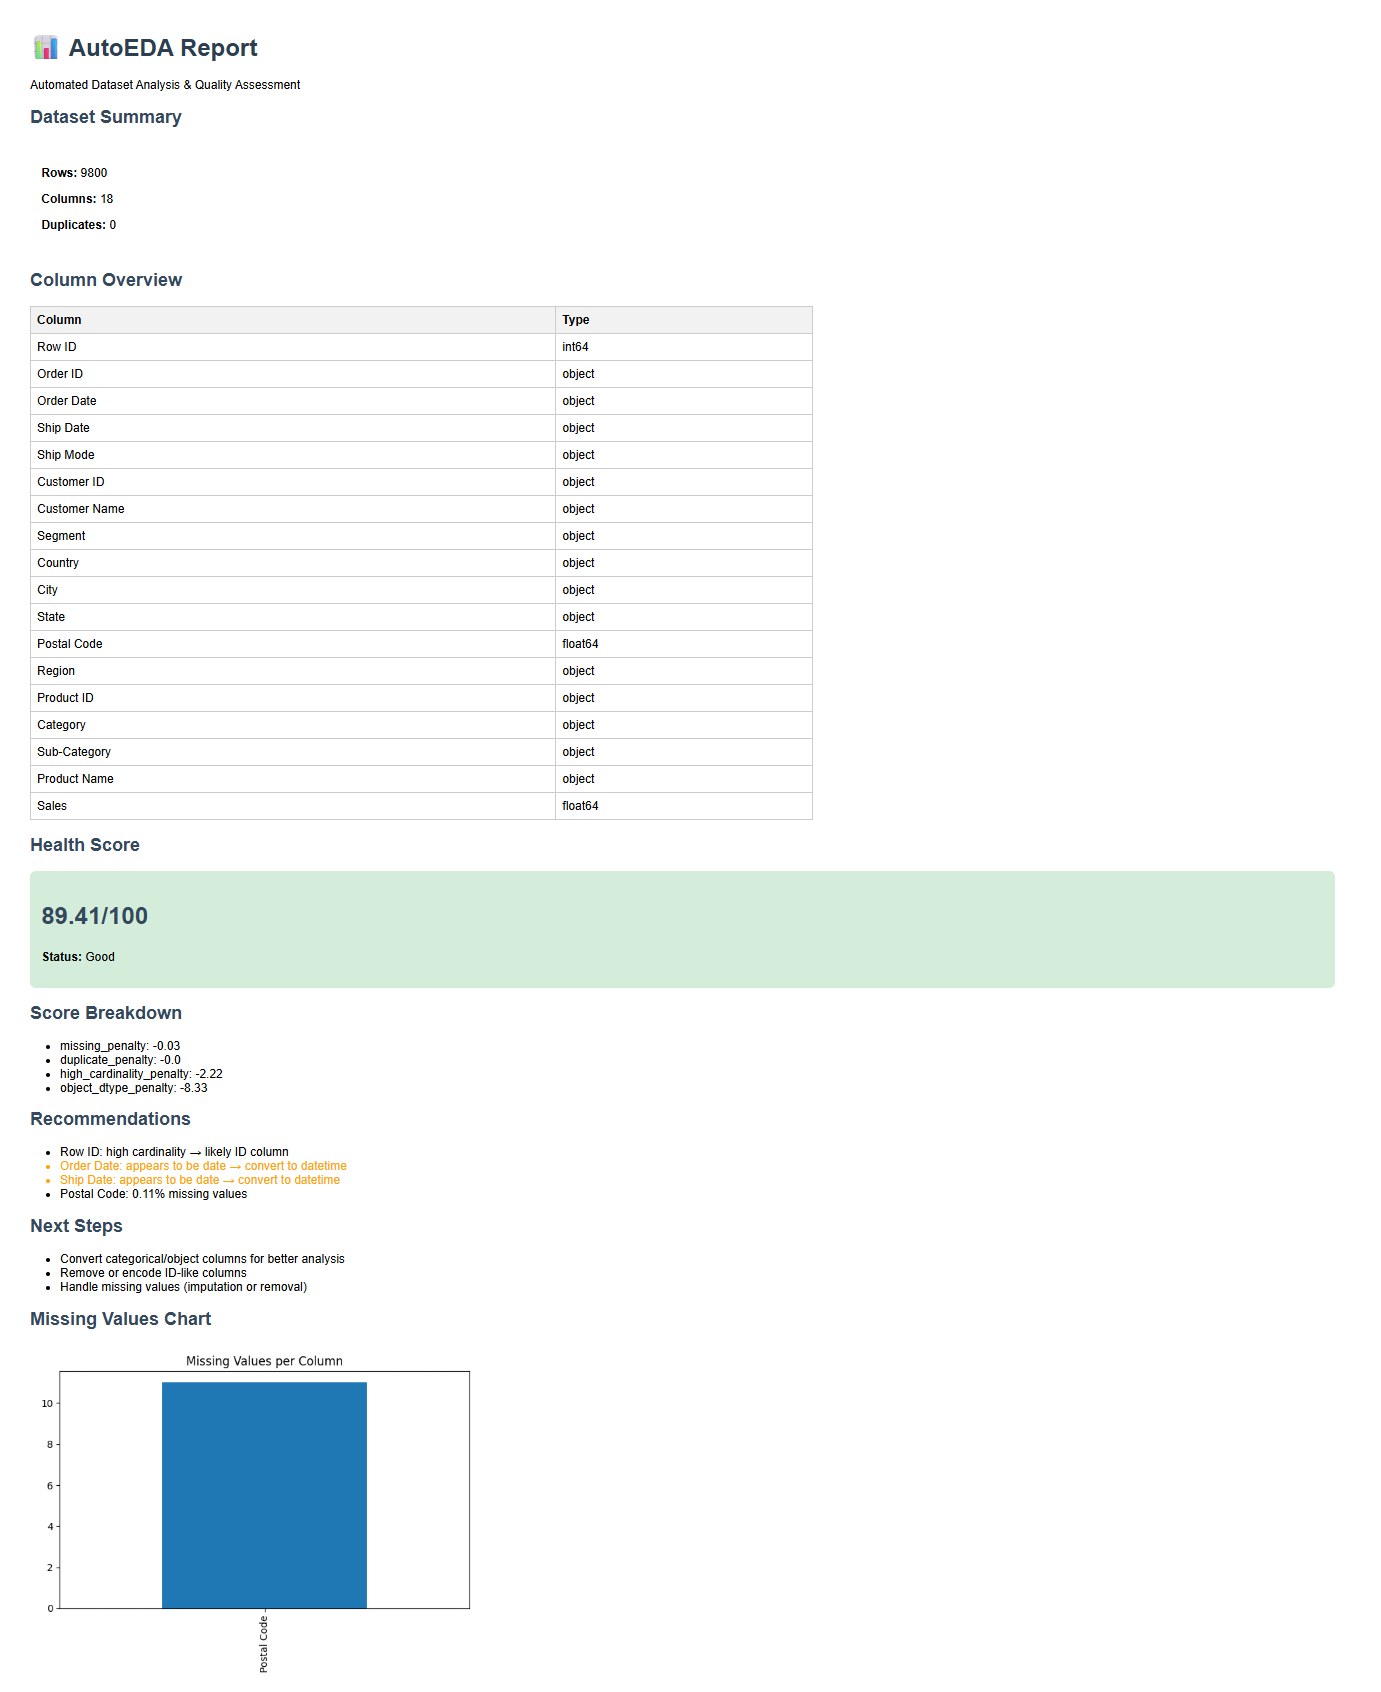
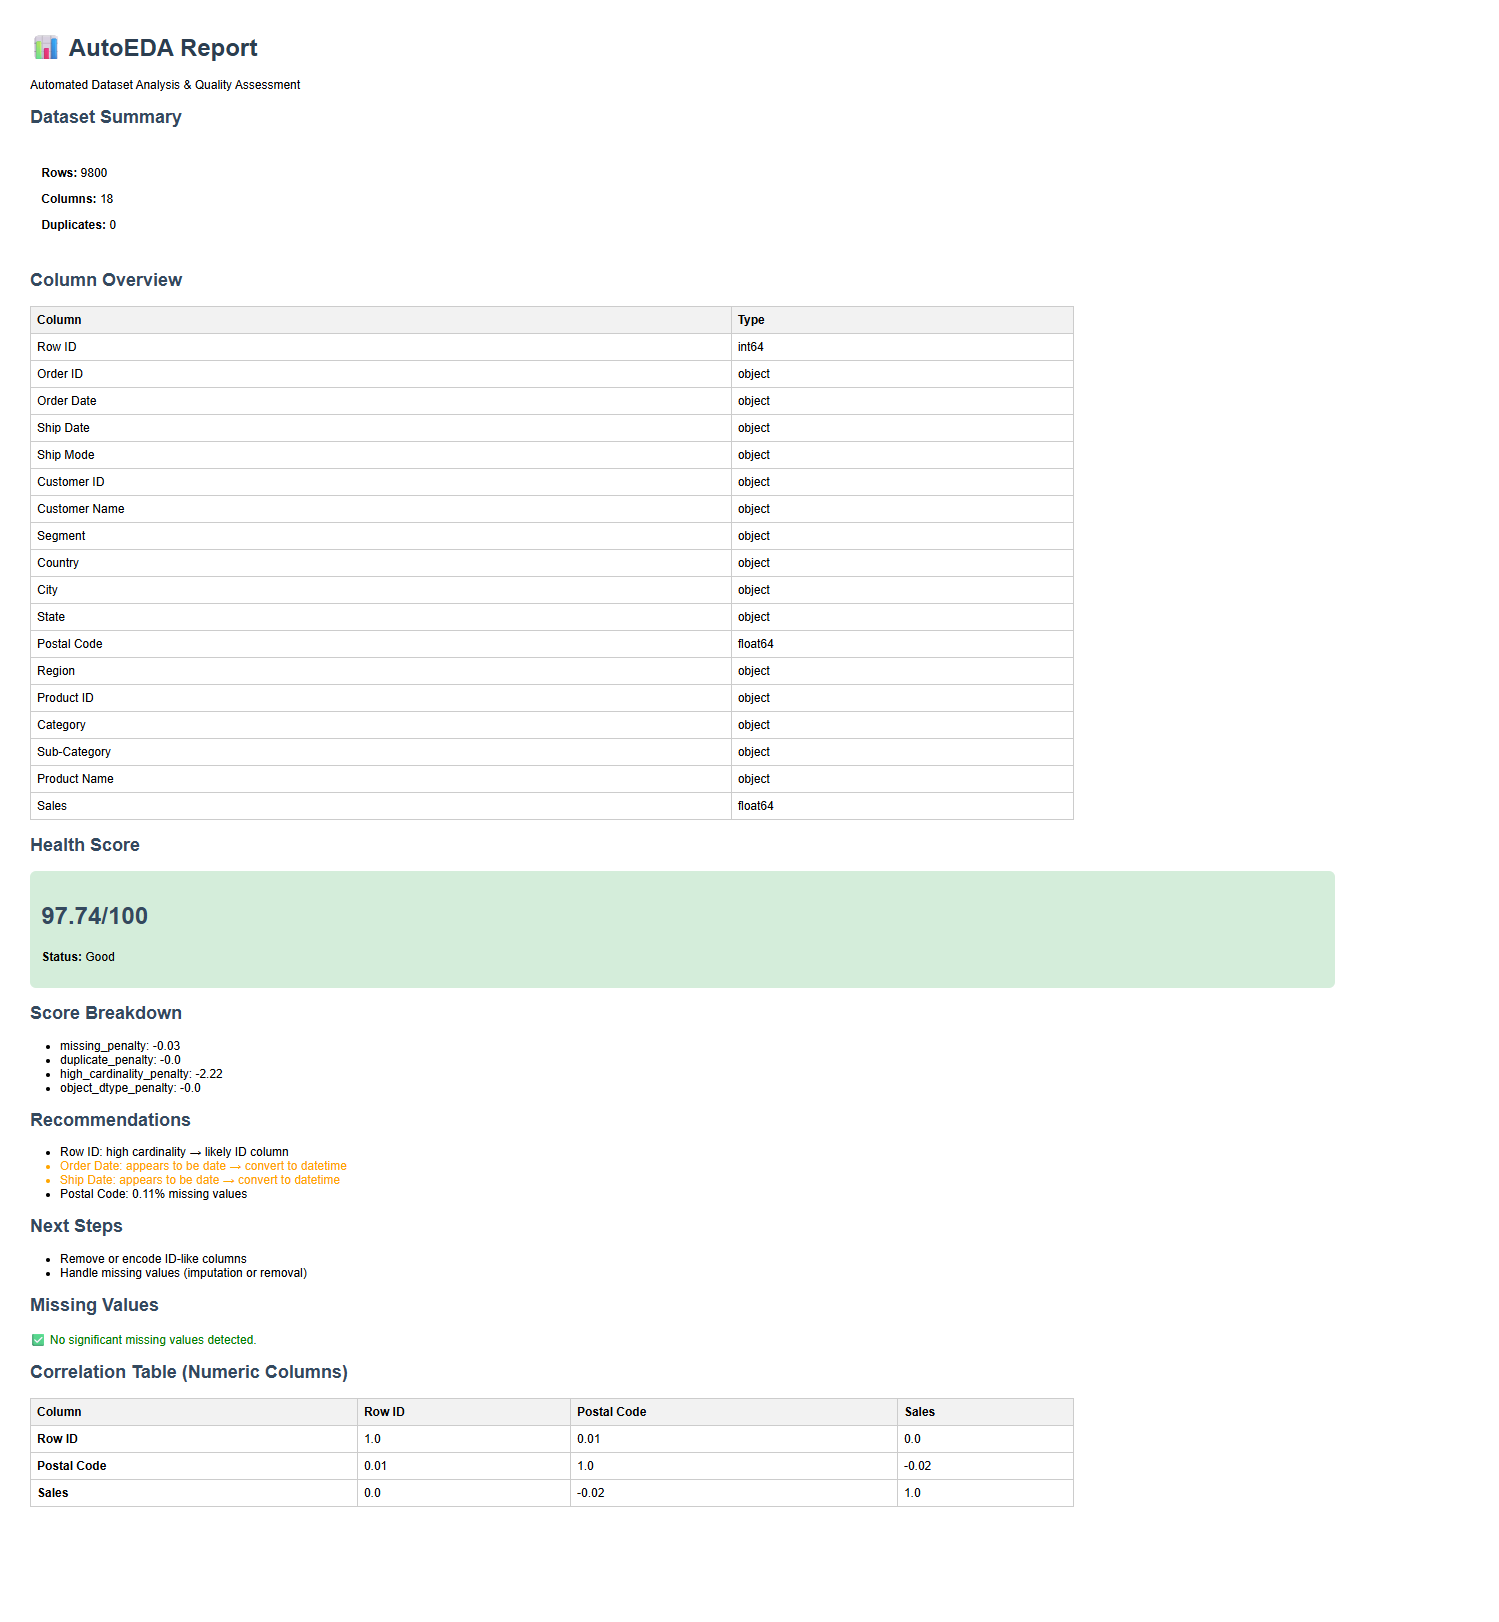
Update README with new report preview and feature list

Changed region(s): [[0.0, 0.0, 0.9652, 0.9864], [0.3736, 0.8631, 0.4359, 0.9248], [0.5916, 0.8631, 0.6227, 0.9248]]

diff --git a/README.md b/README.md
@@ -9,24 +9,23 @@ AutoEDA is a lightweight tool that automatically analyzes datasets, evaluates da
 * 📦 Load and analyze CSV datasets instantly
 * 📊 Dataset summary (rows, columns, duplicates, data types)
 * ⚠ Automatic issue detection:
-
-  * Missing values
+  * Missing values (with significance threshold)
   * ID-like columns
-  * Incorrect data types (e.g., dates as strings)
+  * Incorrect data types (e.g., dates as strings, numeric-looking objects)
 * 🧠 Smart recommendations for data cleaning
-* 📈 Dataset Health Score (0–100) with breakdown
-* 📝 Export-ready HTML report with visualization
+* 📈 Dataset Health Score (0–100) with penalty breakdown
+* 🔗 Correlation table for numeric columns (highlights strong correlations)
+* 📝 Export-ready HTML report
 
 ---
 
 ## 🧠 Example Output
 
-* Health Score: **89.41 / 100 (Good)**
+* Health Score: **97.74 / 100 (Good)**
 * Identified issues:
-
   * ID columns detected
   * Date columns not parsed
-  * Missing values in dataset
+  * Minor missing values in Postal Code (0.11%)
 
 ---
 
@@ -37,17 +36,15 @@ AutoEDA is a lightweight tool that automatically analyzes datasets, evaluates da
 ---
 
 ## ⚙ Installation
-
 ```bash
 git clone https://github.com/ChiragSharma2026/autoeda-pro.git
 cd autoeda-pro
-pip install pandas matplotlib
+pip install pandas matplotlib scikit-learn
 ```
 
 ---
 
 ## ▶ Usage
-
 ```bash
 python loader.py your_dataset.csv
 ```
@@ -59,11 +56,10 @@ python loader.py your_dataset.csv
 ---
 
 ## 📁 Project Structure
-
 ```
 autoeda-pro/
 │── loader.py            # Main entry point
-│── analyzer.py          # Dataset analysis
+│── analyzer.py          # Dataset analysis + correlations
 │── recommendations.py   # Suggestions engine
 │── health.py            # Scoring system
 │── report.py            # HTML report generator
@@ -82,9 +78,9 @@ AutoEDA focuses on:
 
 ## 🚧 Future Improvements
 
-* Correlation heatmaps
-* Advanced feature importance
-* CLI packaging
+* Distribution charts per column
+* CLI packaging (`pip install autoeda-pro`)
+* Feature importance (target column detection)
 * Web dashboard
 
 ---
